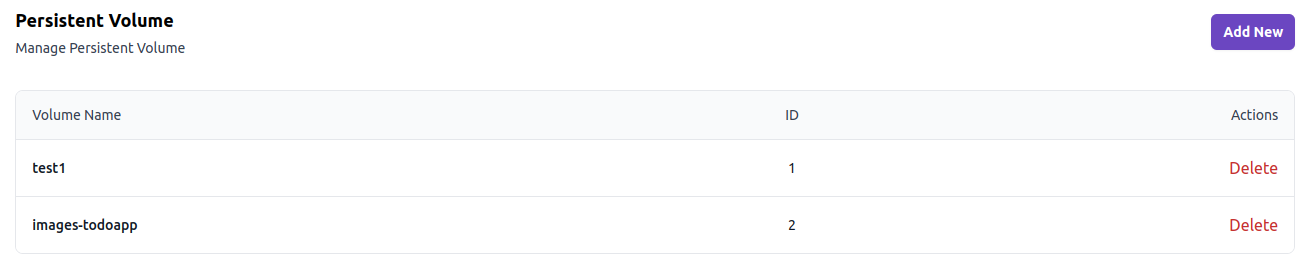
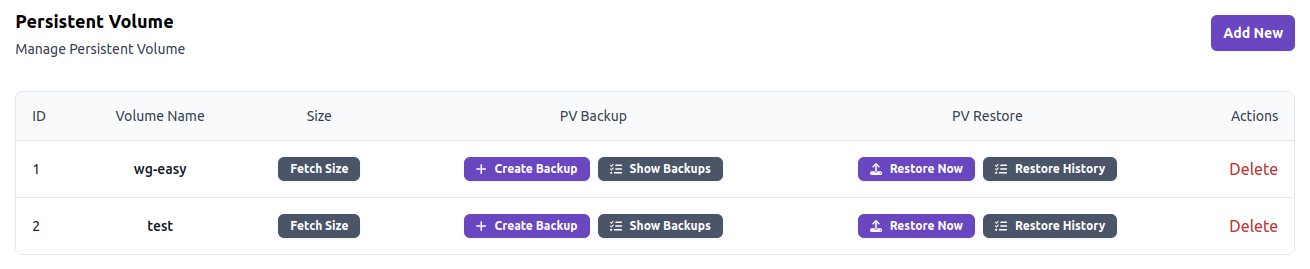
feat: pv backup restore docs (#29)

diff --git a/docusaurus.config.js b/docusaurus.config.js
@@ -114,17 +114,17 @@ const config = {
         items: [
           {
             to: "/docs",
-            label: "📚 Docs",
+            label: "Docs",
             position: "left",
           },
           {
             to: "/docs/contribution_guideline",
-            label: "🤝 Contribute",
+            label: "Contribute",
             position: "left",
           },
           {
             to: "/docs/support_us",
-            label: "✨ Support Us",
+            label: "Support Us",
             position: "left",
           },
           // {
@@ -137,11 +137,11 @@ const config = {
           //   type: "localeDropdown",
           //   position: "right",
           // },
-          {
-            to: "/docs/manifesto",
-            label: "🌱 Manifesto",
-            position: "right",
-          },
+          // {
+          //   to: "/docs/manifesto",
+          //   label: "🌱 Manifesto",
+          //   position: "right",
+          // },
           {
             type: 'custom-github-star-btn',
             position: 'right'

diff --git a/docs/dashboard/persistent-volumes.md b/docs/dashboard/persistent-volumes.md
@@ -8,7 +8,45 @@ In **Persistent Volumes** section, you can see all the persistent volumes create
 
 ![Persistent Volume List](/assets/persistent-volumes.png)
 
-**You can **
-- **Create** a new persistent volume by clicking on `Add New` button.
-- **Delete** a persistent volume by clicking on `Delete` button.
-  > Note : You can only delete a persistent volume if it is not being used by any application.
+### Create a Persistent Volume
+1. Click on `Add New` button.
+2. Put a name for the persistent volume.
+   > Note : The name should be unique and can't contain spaces.
+3. Submit.
+
+### Delete a Persistent Volume
+Just click on `Delete` button to delete a persistent volume.
+
+### Analyze Size of Persistent Volume
+You can click on `Fetch Size` button to fetch size of the persistent volume.
+
+### Backup Volume
+1. You can backup and take snapshot of the persistent volume by clicking on `Create Backup` button.
+2. You can choose type of backup.
+    - **Local** : The backup will be stored locally in the server itself.
+    - **S3** : The backup will be stored in S3 bucket. You need to configure S3 beforehand to avail this feature.
+      > You can open  swiftwave config by [`swiftwave config -e vim`](/docs/cli/config) command
+3. Submit to create backup.
+4. You can open the backup history by `Show Backups` button to see the status of the backup.
+
+### Backup History
+You can click on `Show Backups` button to see the backup history of the volume.
+
+![Backup History](/assets/backup-history.png)
+
+- You can check status of old backups.
+- You can also download the backup file by clicking on `Download Backup` button.
+
+
+### Restore Volume
+1. You can upload a backup file to restore the volume by clicking on `Restore Now` button.
+2. Upload the backup file.
+3. Submit to restore the volume.
+4. You can open the restore history by `Show Restores` button to see the status of the restore.
+
+### Restore History
+You can click on `Restore History` button to see the restore history of the volume.
+
+![Restore History](/assets/restore-history.png)
+
+- You can check status of all restores.

diff --git a/docs/index.md b/docs/index.md
@@ -30,6 +30,7 @@ Experience the ease of deployment and management with SwiftWave! 🌊
 - **Flexible Restart**: Restart your application at your convenience 🔄
 - **Scaling Made Easy**: Scale your application effortlessly with just one click 🔍
 - **Log Insight**: Easily check logs for your application 📋
+- **Backup & Restore**: Backup and restore your application with just one click 🔄
 
 ### 🛣 Traffic Control
 - **Custom Domains**: Add custom domains and auto-issue SSL certificates with just one click 🔒
